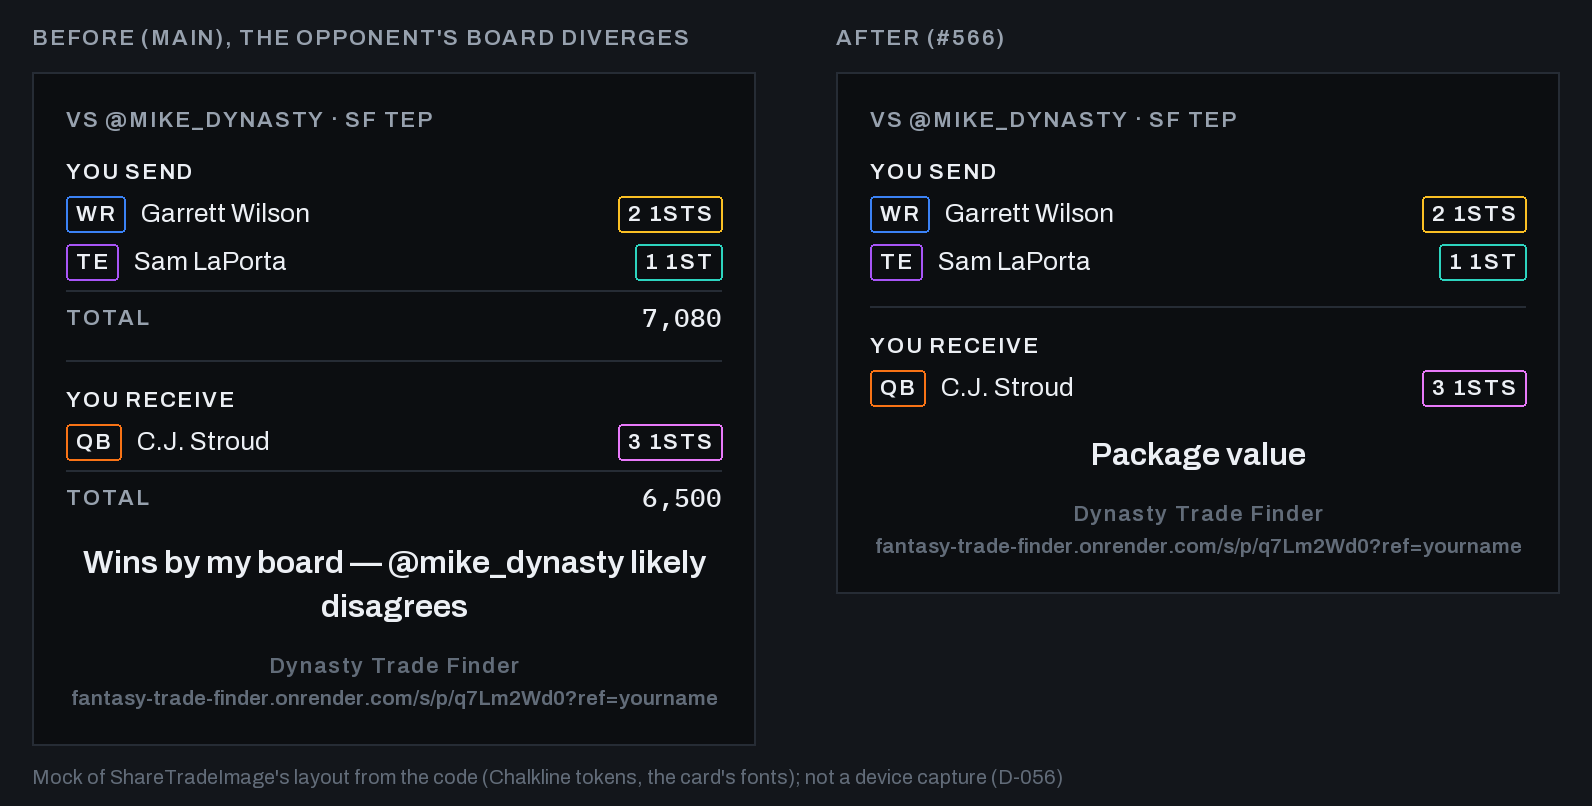
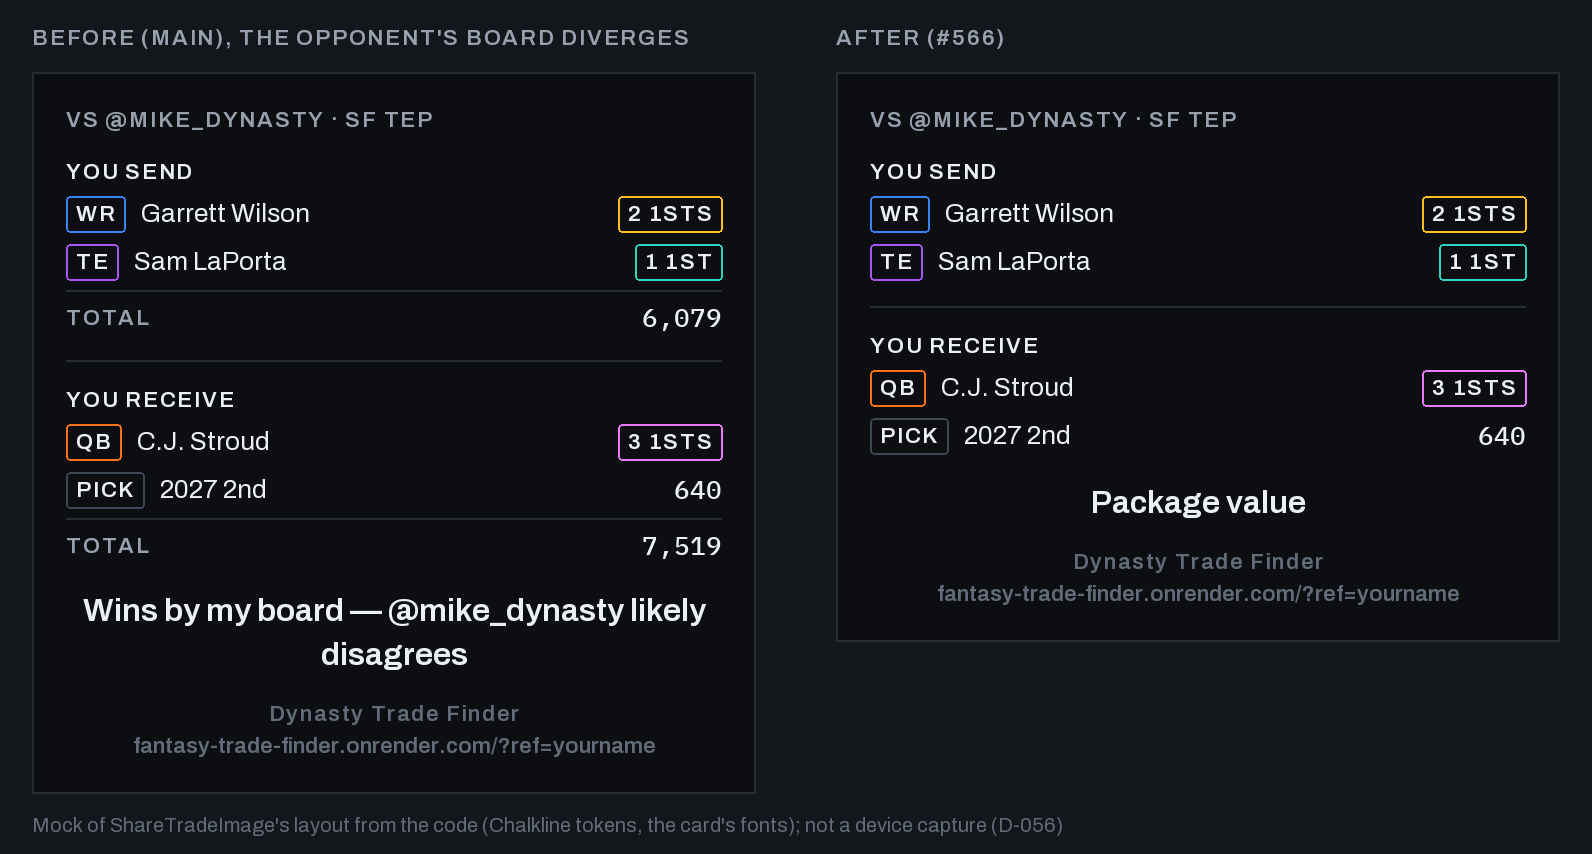
C2: renders draw picks as each host builds them and main's real TOTALs; guard closes Unfair / even / win / total (#566 re-QA)
- P2-A: the calculator's pick is a generic rung from /api/trade/values
  (an RB chip, "Mid 1st Round Pick", a 1 1ST badge), not a PICK row with a
  number. The pick with a number moves to the in-league pane as an owned
  league pick ("2027 2nd"), whose package skips the mint, so that pane's
  URL is the /?ref= link. Main's TOTALs are the evaluation's package values
  (_consensus_packages), and its calculator verdict comes from _fairness_v3.
  TestFlight steps 1 and 4, the scope and the ledger say the same.
- Guard P3s: /fair/i (Unfair), "even", a win (incl. ASCII Win-win),
  "total" and .reduce( in every share region, matched with comments
  stripped. A verdict passed through a variable defined elsewhere is noted
  as not covered.

diff --git a/mobile/tests/check-share-text.js b/mobile/tests/check-share-text.js
@@ -11,7 +11,9 @@
 // Scoped to the share code: the share image component and its render body,
 // each <ShareTradeImage … /> element (its caption, verdictLine and fallback
 // text) and the calculator's shareTrade text. Banned by string and by
-// meaning (a .verdict read, the ratio, the side values, "fair", "%"). The in-app verdict (LeagueVerdict, the
+// meaning (a .verdict read, the ratio, the side values, "fair", "even", a
+// win, a total, "%"). Not covered: a verdict read into a variable outside
+// these regions and passed in by a neutral name (that needs data flow). The in-app verdict (LeagueVerdict, the
 // calculator's verdict card) is unchanged and not checked here.
 //
 // Run: node tests/check-share-text.js
@@ -65,13 +67,18 @@ check('the share image has no TOTAL row', !/>TOTAL</.test(image) && !/styles\.to
 check('the share image takes no totals', !/sendTotal|receiveTotal/.test(image));
 
 // By meaning, not only by string (release-lead's #566 QA): a verdict read
-// off the evaluation, its ratio, its side values or its favoured side, the
-// word "fair", or a percentage, anywhere in the share code.
+// off the evaluation, its ratio, its side values or its favoured side;
+// "fair" (and "Unfair"), "even", a win; a total or a sum; a percentage.
+// Matched against the code with its comments stripped, so the comments that
+// explain C2 may name what it removed.
 const BANNED_PATTERNS = [
   [/\.verdict\b/, '.verdict'], [/point_ratio/, 'point_ratio'],
   [/\b(give|receive)_value\b/, 'give_value / receive_value'], [/\bfavors\b/, 'favors'],
-  [/\bfair\b/i, '"fair"'], [/%/, '"%"'],
+  [/fair/i, '"fair"'], [/\beven\b/i, '"even"'], [/\bwins?\b/i, '"win"'],
+  [/total/i, '"total"'], [/\.reduce\(/, 'a sum (.reduce)'], [/%/, '"%"'],
 ];
+const stripComments = (src) =>
+  src.replace(/\/\*[\s\S]*?\*\//g, '').replace(/(^|[^:'"`])\/\/.*$/gm, '$1');
 
 const shareCode = [
   ['the calculator\'s share image', elements(calc)],
@@ -88,7 +95,7 @@ for (const [where, regions] of [...shareCode, ['the share image\'s render body',
       check(`${where} has no "${banned}"`, !r.includes(banned));
     }
     for (const [pattern, name] of BANNED_PATTERNS) {
-      check(`${where} has no ${name}`, !pattern.test(r));
+      check(`${where} has no ${name}`, !pattern.test(stripComments(r)));
     }
   }
 }

diff --git a/docs/plans/share-text-c2/renders/render.py b/docs/plans/share-text-c2/renders/render.py
@@ -10,19 +10,39 @@ What it mirrors, by file:
   (type.title, centred); the footer (wordmark, then the URL, 11/14 Archivo
   SemiBold in chalk.faint, gap 2, the URL shrunk to fit down to 0.8).
   Main's card adds each side's TOTAL row (a hairline, then TOTAL in
-  type.label chalk.dim and the sum in type.data).
+  type.label chalk.dim and the figure in type.data). That figure is the
+  evaluation's give_value / receive_value, the package value after its
+  adjustments, not the rows' sum: drawn here from the backend's own
+  trade_optimizer._consensus_packages over the mock's values, as
+  /api/trade/evaluate computes it; main's calculator verdict likewise comes
+  from _fairness_v3 ("even" at a ratio of 0.95 or more, else "fair" or
+  "unfair") and the favoured side.
 - TierBadge.tsx / PositionChip.tsx, size sm: a 1px border in the tier's or
   position's colour (a pick's: ink.lineStrong), padding 4 by 1, radius xs,
   the label in type.label (uppercase, tracked) in chalk.base. Tier labels
   are the pick-value ladder's ("2 1sts", "1 1st", ...).
+- Picks, as each host builds them:
+  - the live calculator's are the pool's generic rungs from
+    /api/trade/values: a year-less name ("Mid 1st Round Pick",
+    pick_values.generic_pick_label), a stand-in position (_PICK_POS: a 1st
+    is "RB") and a ladder tier, so the card draws an RB chip and a tier
+    badge (TradeCalculatorScreen's tierFor is null only for pos "PICK");
+  - the in-league calculator's are the user's owned league picks
+    ("2027 2nd", server._owned_pick_label), pos "PICK" and no tier, so the
+    card draws a PICK chip and the pick's number. A package holding one
+    skips the mint (hasPickAssets), so its URL is the ?ref= rung.
 - theme/chalkline.ts and theme/colors.ts: every colour and type size.
 
 Run from the repo root (fonts from the shared mobile deps):
   python3 docs/plans/share-text-c2/renders/render.py
 """
+import sys
 from pathlib import Path
 
 from PIL import Image, ImageDraw, ImageFont
+
+sys.path.insert(0, str(Path(__file__).resolve().parents[4]))
+from backend.trade_optimizer import _consensus_packages, _fairness_v3  # noqa: E402
 
 FONTS = Path("/Users/teresadickens/ftf-worktrees/mobile-deps/mobile/node_modules/@expo-google-fonts")
 OUT = Path(__file__).resolve().parent
@@ -85,7 +105,7 @@ def outlined_label(d, x_right, y_mid, text, border):
     return x0, w
 
 
-def card(caption, sides, verdict, url, totals):
+def card(caption, sides, verdict, url, totals=None):
     W, pad, gap = 360 * S, 16 * S, 12 * S
     img = Image.new("RGB", (W, 1000 * S), INK0)
     d = ImageDraw.Draw(img)
@@ -115,7 +135,7 @@ def card(caption, sides, verdict, url, totals):
             y += 4 * S
             d.rectangle((pad, y, W - pad - 1, y + S - 1), fill=LINE)
             y += S + 4 * S                               # paddingTop space.xs
-            total = f"{sum(VALUES[n] for _, n, _ in assets):,}"
+            total = f"{round(totals[i]):,}"
             draw_text(d, pad, y + 2 * S, "TOTAL", LABEL, DIM)
             draw_text(d, W - pad - width(d, total, DATA), y, total, DATA, BASE)
             y += 18 * S
@@ -163,26 +183,48 @@ def pair(name, left_label, before, right_label, after):
     out.save(OUT / name)
 
 
-# Values on the elo_to_value scale; a player's row shows its tier, a pick's its value.
+# Illustrative values on the elo_to_value scale; a player's row shows its tier,
+# an owned league pick's row its value. "Mid 1st Round Pick" is the generic
+# rung at its seed (elo_to_value(1650), first_1 for an RB).
 VALUES = {"Garrett Wilson": 4630, "Breece Hall": 5210, "Jalen Hurts": 6400,
-          "Sam LaPorta": 2450, "C.J. Stroud": 6500, "2027 Mid 1st": 2117}
+          "Mid 1st Round Pick": 2117, "Sam LaPorta": 2450, "C.J. Stroud": 6500,
+          "2027 2nd": 640}
+
+
+def evaluation(sides):
+    """Main's TOTALs and the calculator's verdict, as /api/trade/evaluate
+    computes them (server.py: _consensus_packages, _fairness_v3 at the 0.75
+    default, _value_verdict_payload's favours)."""
+    give, recv = ([n for _, n, _ in assets] for _, assets in sides)
+    value = VALUES.__getitem__
+    gv, rv = _consensus_packages(give, recv, value)
+    fairness, ratio, *_ = _fairness_v3(give, recv, value, None, 0.75)
+    even = ratio >= 0.95
+    verdict = "even" if even else "fair" if fairness is not None else "unfair"
+    favors = "even" if even else "receive" if rv > gv else "give"
+    return (round(gv, 1), round(rv, 1)), verdict, favors
+
 
 calc = [("Side A sends", [("WR", "Garrett Wilson", "firsts_2"), ("RB", "Breece Hall", "firsts_2")]),
-        ("Side B sends", [("QB", "Jalen Hurts", "firsts_3"), ("PICK", "2027 Mid 1st", None)])]
+        ("Side B sends", [("QB", "Jalen Hurts", "firsts_3"), ("RB", "Mid 1st Round Pick", "first_1")])]
+calc_totals, verdict, favors = evaluation(calc)
+calc_line = f"Verdict: {verdict}" + {"give": " · Side A sends more",
+                                      "receive": " · Side B sends more"}.get(favors, "")
 calc_url = "fantasy-trade-finder.onrender.com/s/p/Hk3x9Q2a?ref=yourname"
 pair("calculator-before-after.png",
      "Before (main)",
-     card("Trade idea · 1QB PPR", calc, "Verdict: fair · Side A sends more", calc_url, True),
+     card("Trade idea · 1QB PPR", calc, calc_line, calc_url, calc_totals),
      "After (#566)",
-     card("Trade idea · 1QB PPR", calc, "Package value", calc_url, False))
+     card("Trade idea · 1QB PPR", calc, "Package value", calc_url))
 
 league = [("You send", [("WR", "Garrett Wilson", "firsts_2"), ("TE", "Sam LaPorta", "first_1")]),
-          ("You receive", [("QB", "C.J. Stroud", "firsts_3")])]
-league_url = "fantasy-trade-finder.onrender.com/s/p/q7Lm2Wd0?ref=yourname"
+          ("You receive", [("QB", "C.J. Stroud", "firsts_3"), ("PICK", "2027 2nd", None)])]
+league_totals, _, _ = evaluation(league)
+league_url = "fantasy-trade-finder.onrender.com/?ref=yourname"   # a pick: no mint
 pair("in-league-before-after.png",
      "Before (main), the opponent's board diverges",
      card("vs @mike_dynasty · SF TEP", league,
-          "Wins by my board — @mike_dynasty likely disagrees", league_url, True),
+          "Wins by my board — @mike_dynasty likely disagrees", league_url, league_totals),
      "After (#566)",
-     card("vs @mike_dynasty · SF TEP", league, "Package value", league_url, False))
+     card("vs @mike_dynasty · SF TEP", league, "Package value", league_url))
 print("ok")

diff --git a/docs/plans/share-text-c2/scope.md b/docs/plans/share-text-c2/scope.md
@@ -34,22 +34,23 @@
   - **Against main's share code it fails 28 checks.** release-lead's four bypasses (a bare `.verdict` in the text share, "`${…}% fair`" in the fallback, the verdict in the caption, a hard-coded "Verdict: fair" in the card) and two variants are each red.
 - [x] **Unit tests:** none. This is a client-only copy removal; the guard covers it.
 - [x] **Before/after renders** (for the operator's design OK): `renders/calculator-before-after.png`, and `renders/in-league-before-after.png` against a diverging opponent. They're mocks, not device captures (D-056). `renders/render.py` draws them from the code:
-  - the layout of `ShareTradeImage`, with main's TOTAL rows in the before pane;
+  - the layout of `ShareTradeImage`, with main's TOTAL rows in the before pane. Their figures are the evaluation's package values (after adjustments), from the backend's own `_consensus_packages`, and main's calculator verdict comes from `_fairness_v3`;
   - `TierBadge`'s pick-value ladder labels ("2 1sts", "1 1st", …; `type.label` uppercases them on the device), drawn in `chalk.base` with a 1px border in the tier's colour;
-  - `PositionChip` the same way, with a pick's border in `ink.lineStrong`; a pick shows its number;
+  - `PositionChip` the same way;
+  - picks as each host builds them. The live calculator's pick is a generic rung from `/api/trade/values`: a year-less name ("Mid 1st Round Pick"), a stand-in position (a 1st is "RB") and a tier badge. The in-league pick is an owned league pick ("2027 2nd"): a PICK chip in `ink.lineStrong` and its number. A package holding one skips the mint, so that pane's URL is the `/?ref=` link;
   - the wordmark, then the URL footer;
   - the Chalkline tokens and the card's own fonts.
-  The first version drew cyan "ELITE" / "STARTER" badges and no URL footer (release-lead's #566 QA P2-2). Redrawn.
+  The first version drew cyan "ELITE" / "STARTER" badges and no URL footer (release-lead's #566 QA P2-2). The second drew a calculator pick that can't occur ("PICK", "2027 Mid 1st", a number) and TOTALs as the rows' sum (P2-A). Both redrawn.
 - [x] **Manual TestFlight checklist** (operator, on the 11-06 binary). There's no image-capture toggle on an iPhone: the text fallback is the message body sent with the image (`ShareTradeImage.tsx:150`), so steps 2 and 5 read it in Messages.
-  1. **Calculator** (live, both sides filled, a pick on one side) → **Share image**. The card shows:
-     - the two sides, players with their tier badges and the pick with its number;
+  1. **Calculator** (live, both sides filled) → **Share image**. The card shows:
+     - the two sides, each asset with its tier badge as on screen. A generic pick from the calculator's list shows its stand-in position chip and a tier badge too (e.g. RB, "Mid 1st Round Pick", 1 1ST);
      - then "Package value", then the "Dynasty Trade Finder" wordmark and the URL footer;
      - no TOTAL rows, no "Verdict", no "%".
      The on-screen verdict card is unchanged.
   2. **In step 1's share sheet, pick Messages and read the text body.** It's exactly 4 lines, "Trade idea (…)", "Side A: …", "Side B: …", "Package value", then the link. No Consensus, ratio, Verdict, win or board line.
   3. **Calculator → Share** (the text button). The message is the same 4 lines, then "Build your own: <link>" when share landing is on. No "Consensus:", "ratio" or "Verdict".
      - The link's preview still says "% fair" until #511 is live. That's #511's, not C2's.
-  4. **In-league calculator**, against an opponent whose board diverges from yours (a "Wins by my board" or "@opp wins" verdict on screen) → **Share image**. The card says "Package value", never a win or board line, with the wordmark and the URL footer. The on-screen verdict is unchanged.
+  4. **In-league calculator**, against an opponent whose board diverges from yours (a "Wins by my board" or "@opp wins" verdict on screen), with one of your league picks on a side → **Share image**. The card says "Package value", never a win or board line. The league pick shows a PICK chip and its number. The footer has the wordmark and the plain `/?ref=` link (a package holding a pick isn't minted). The on-screen verdict is unchanged.
   5. **In step 4's share sheet, pick Messages and read the text body.** It's exactly 4 lines, "Trade idea vs @opp (…)", "I send: …", "I get: …", "Package value", then the link. No Consensus, ratio, Verdict, win or board line.
 - `testID`s added/renamed: none.
 

diff --git a/living-memory/TEST_LEDGER.md b/living-memory/TEST_LEDGER.md
@@ -4,9 +4,11 @@ Gates: the C2 scope (`docs/plans/share-text-c2/scope.md`). Client-only; no schem
 
 - **P2-2, the renders:** `renders/render.py` now draws both before/after PNGs from the code:
   - `TierBadge`'s pick-value ladder labels (uppercased by `type.label`) in `chalk.base`, with a 1px border in the tier's colour. The first draw had cyan "ELITE" / "STARTER" badges.
-  - `PositionChip` the same way; a pick shows its number;
+  - `PositionChip` the same way;
+  - **picks as each host builds them** (release-lead's re-QA P2-A). The calculator's pick is a generic rung: an RB chip, "Mid 1st Round Pick" and a "1 1ST" badge. The in-league pick is an owned league pick: a PICK chip, "2027 2nd" and its number, with the `/?ref=` URL (no mint). The second draw had an impossible "PICK 2027 Mid 1st 2,117" row in the calculator;
+  - main's TOTALs are the evaluation's package values (`_consensus_packages`), not the rows' sum, and its calculator verdict comes from `_fairness_v3`;
   - the wordmark and the URL footer in both panes. The first draw had no footer.
-- **P2-3, the checklist:** steps 2 and 5 now read the message body sent with the image in Messages (there's no capture toggle on iOS). Step 1 adds a pick, the footer and the unchanged on-screen verdict. Step 3 notes the link preview's "% fair" is #511's.
+- **P2-3, the checklist:** steps 2 and 5 now read the message body sent with the image in Messages (there's no capture toggle on iOS). Step 1 adds the footer and the unchanged on-screen verdict; a calculator pick shows its stand-in chip and tier badge. Step 4 adds a league pick, which shows its number with the `/?ref=` link. Step 3 notes the link preview's "% fair" is #511's.
 - **P3, the guard (`check-share-text.js`):**
   - It now bans `.verdict`, `point_ratio`, `give_value` / `receive_value`, `favors`, "fair" and "%" in every share region.
   - It scans the card's render body, which must render the line it's given exactly once.
